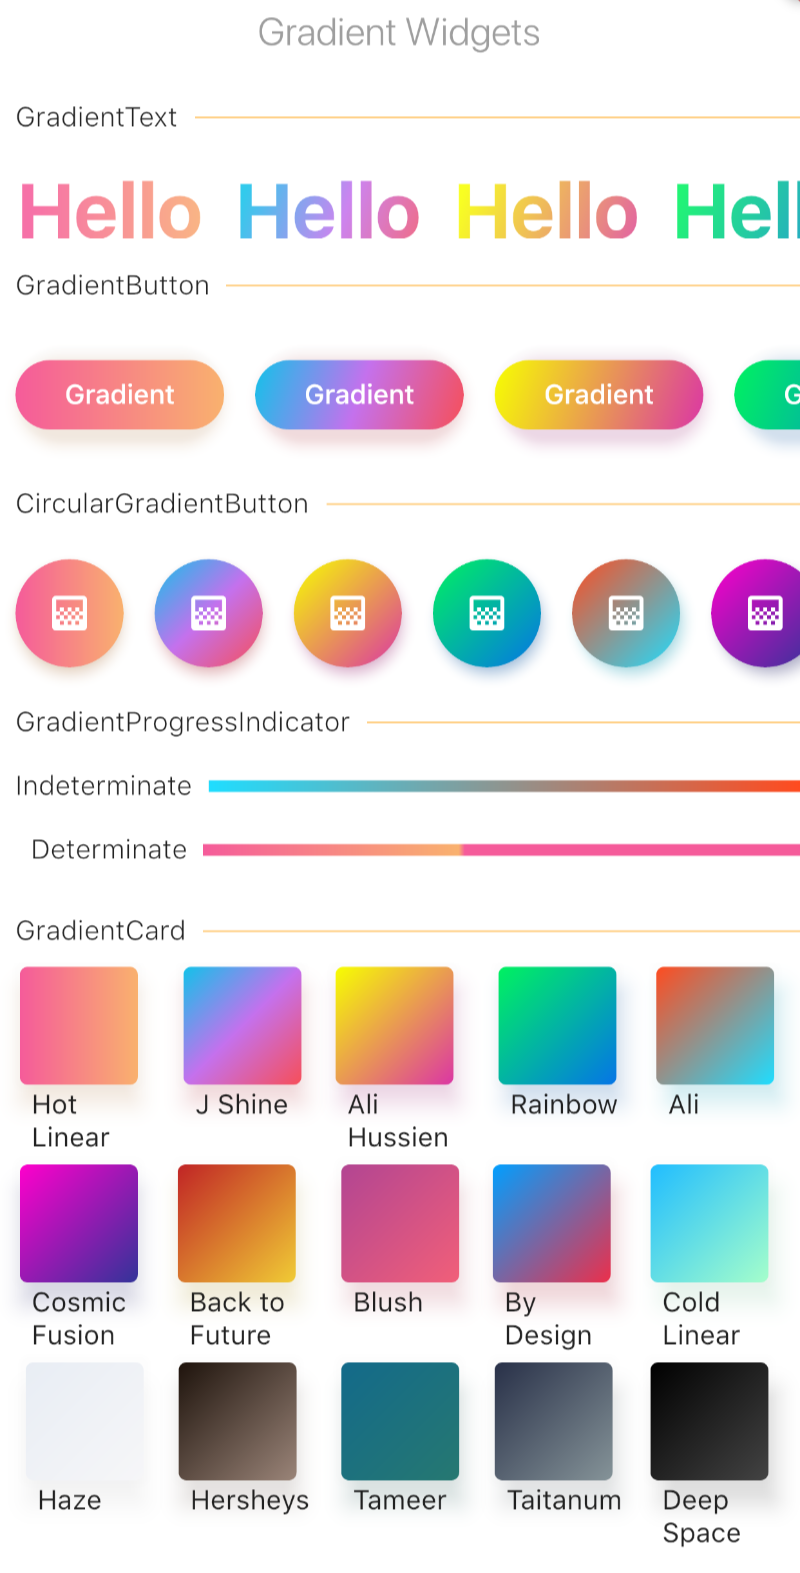
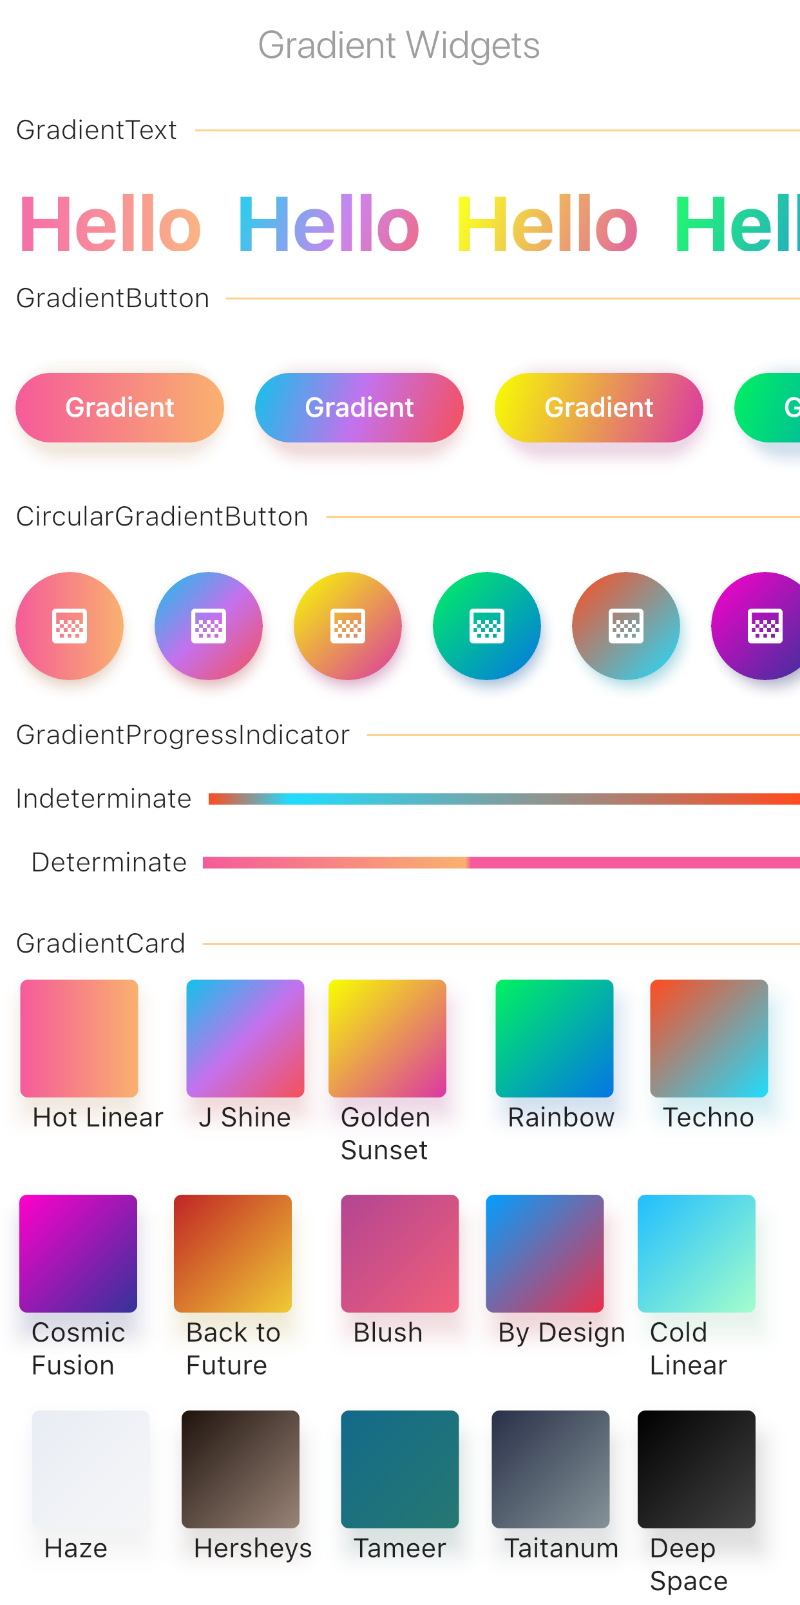
update README.md screenshot of gradient-widgets example

diff --git a/example/lib/main.dart b/example/lib/main.dart
@@ -13,9 +13,9 @@ class NamedGradient {
 List<NamedGradient> gradients = [
   NamedGradient(Gradients.hotLinear, 'Hot Linear'),
   NamedGradient(Gradients.jShine, 'J Shine'),
-  NamedGradient(Gradients.aliHussien, 'Ali Hussien'),
+  NamedGradient(Gradients.aliHussien, 'Golden Sunset'),
   NamedGradient(Gradients.rainbowBlue, 'Rainbow'),
-  NamedGradient(Gradients.ali, 'Ali'),
+  NamedGradient(Gradients.ali, 'Techno'),
   NamedGradient(Gradients.cosmicFusion, 'Cosmic Fusion'),
   NamedGradient(Gradients.backToFuture, 'Back to Future'),
   NamedGradient(Gradients.blush, 'Blush'),
@@ -35,7 +35,7 @@ class MyApp extends StatelessWidget {
   Widget build(BuildContext context) {
     return MaterialApp(
       title: 'Flutter Gradient Widgets Demo',
-      debugShowCheckedModeBanner: true,
+      debugShowCheckedModeBanner: false,
       theme: ThemeData(
         primarySwatch: Colors.blue,
       ),
@@ -93,6 +93,7 @@ class _MyHomePageState extends State<MyHomePage> {
         backgroundColor: Colors.white,
         body: ListView(
           scrollDirection: Axis.vertical,
+          physics: BouncingScrollPhysics(),
           children: <Widget>[
 //            GradientProgressIndicator(gradient: Gradients.aliHussien, value: 0.9,),
 //            GradientProgressIndicator(gradient: Gradients.byDesign,),
@@ -167,10 +168,11 @@ class _MyHomePageState extends State<MyHomePage> {
                     .where((gradient) => gradient.gradient.colors.length == 2)
                     .map((namedGradient) => Padding(
                           padding: const EdgeInsets.symmetric(horizontal: 0, vertical: 0),
-                          child: _divider('  Determinate', child: GradientProgressIndicator(
-                            gradient: namedGradient.gradient,
-                            value: Random().nextDouble(),
-                          )),
+                          child: _divider('  Determinate',
+                              child: GradientProgressIndicator(
+                                gradient: namedGradient.gradient,
+                                value: Random().nextDouble(),
+                              )),
                         ))
                     .toList(),
               ),
@@ -182,7 +184,7 @@ class _MyHomePageState extends State<MyHomePage> {
                 physics: ScrollPhysics(),
                 childAspectRatio: 0.7,
                 crossAxisCount: 5,
-                crossAxisSpacing: 10,
+                crossAxisSpacing: 2,
                 padding: const EdgeInsets.symmetric(horizontal: 8),
                 children: List.generate(gradients.length, (index) {
                   return Center(
